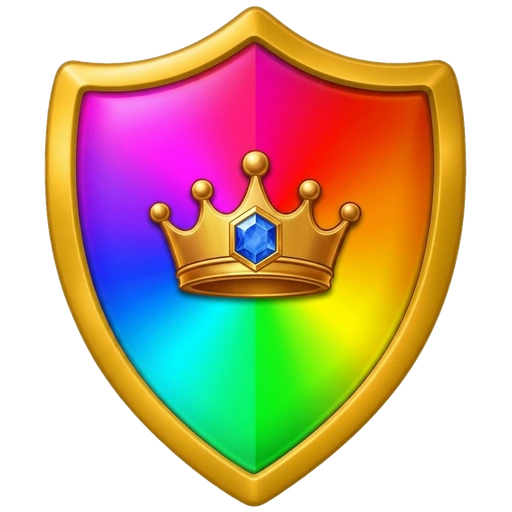
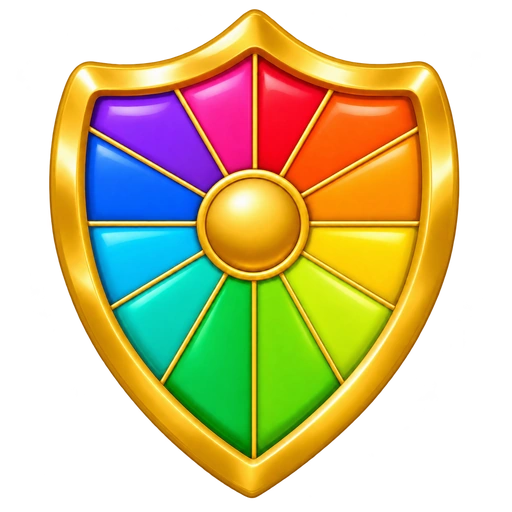
Aplica escudo com centro dourado e raios na prévia

diff --git a/docs/HANDOFF.md b/docs/HANDOFF.md
@@ -1,3 +1,14 @@
+## Escudo com centro de roleta aplicado na prévia — Codex,24/11/2026
+Base d75fa9a preservada (Bubble Rico e opções Gemini). O dono pediu aplicar
+A ARTE MOSTRADA NO CHAT PELO CODEX: escudo com centro circular dourado, raios
+dourados e12 setores coloridos; não é uma escolha das3 opções Gemini.
+Exportada em PNG1254 e WebP512 nos caminhos ativos shield-defense-rainbow-gold-v1.
+Nome legado mantido para todos os consumidores mudarem juntos, sem JS/regras.
+Versão anterior COM coroa arquivada em archive/assets/symbols/shield-defense-
+rainbow-crown-v1.{png,webp}. As3 propostas Gemini continuam guardadas em docs.
+Próximo passo: confirmar Pages e avaliar escudo nos rolos/contador/modal/voos.
+Somente prévia; oficial não alterado nem aprovado nesta tarefa.
+
 ## Três opções do escudo estilo roleta (aguardando escolha do dono) — Antigravity/Gemini, 24/11/2026
 Base `fc83a05` puxada antes de gerar (preservado Bubble Rico do Claude). Pedido do dono: 3 imagens do escudo trocando a coroa central por bolinha dourada tipo o cubo da roleta, com raios dourados saindo do centro e dividindo o escudo em partes coloridas estilo roleta, para ele escolher antes de aplicar.
 - **Artes compartilhadas (custo 0, WebGL2 `2508×2508` → `1254×1254` RGBA + `512×512` WebP sobre a moldura exata de `shield-defense-rainbow-gold-v1.png`)**: `docs/concepts/shield-wheel-options/01-roleta-12-fatias.*` (12 fatias + filetes finos), `02-roleta-8-partes.*` (8 partes largas + divisórias encorpadas) e `03-roleta-10-raios.*` (10 partes + raios cônicos), mais gerador `generate.py`.

diff --git a/guidelines/asset-pipeline.md b/guidelines/asset-pipeline.md
@@ -540,3 +540,8 @@ da silhueta/chanfro externo e o perfil de ouro acetinado de `wheel-symbol-v1.png
 - `docs/concepts/shield-wheel-options/03-roleta-10-raios.{png,webp}` (10 partes + raios dourados cônicos);
 - gerador versionado em `docs/concepts/shield-wheel-options/generate.py`.
 Checkpoint `[skip ci]` sem trocar o asset ativo; aguardando escolha do dono (1, 2 ou 3).
+
+-24/11, escudo roleta Codex: arte aprovada no chat aplicada somente à prévia;
+exportação fiel via GPT Image para recuperar PNG com alfa,1 geração nesta tarefa;
+PNG1254→WebP512 (exportação de formato), sem Meshy. Caminhos ativos mantidos;
+originais com coroa em archive/assets/symbols. Não confundir com3 propostas Gemini.

diff --git a/docs/PARQUE.md b/docs/PARQUE.md
@@ -686,3 +686,8 @@ abaixo do botão de configurações (`⚙`), com aro dourado, interior roxo radi
 sobrepor o alvo de44px do menu nem o saldo; acompanha `.has-wide-wallet`).
 Mantém simulação30s, cancelamento, recibo, crédito idempotente e voo já existentes;
 sem serviço novo de anúncios.
+
+Escudo24/11 (prévia): centro circular dourado inspirado na roleta, divisórias
+radiais douradas e12 setores de cores. Substitui a coroa interna. Caminho legado
+shield-defense-rainbow-gold-v1 mantido; PNG fonte e WebP512 atualizados juntos.
+Não altera defesa, estoque ou pagamentos. Arte anterior em archive/assets/symbols.
